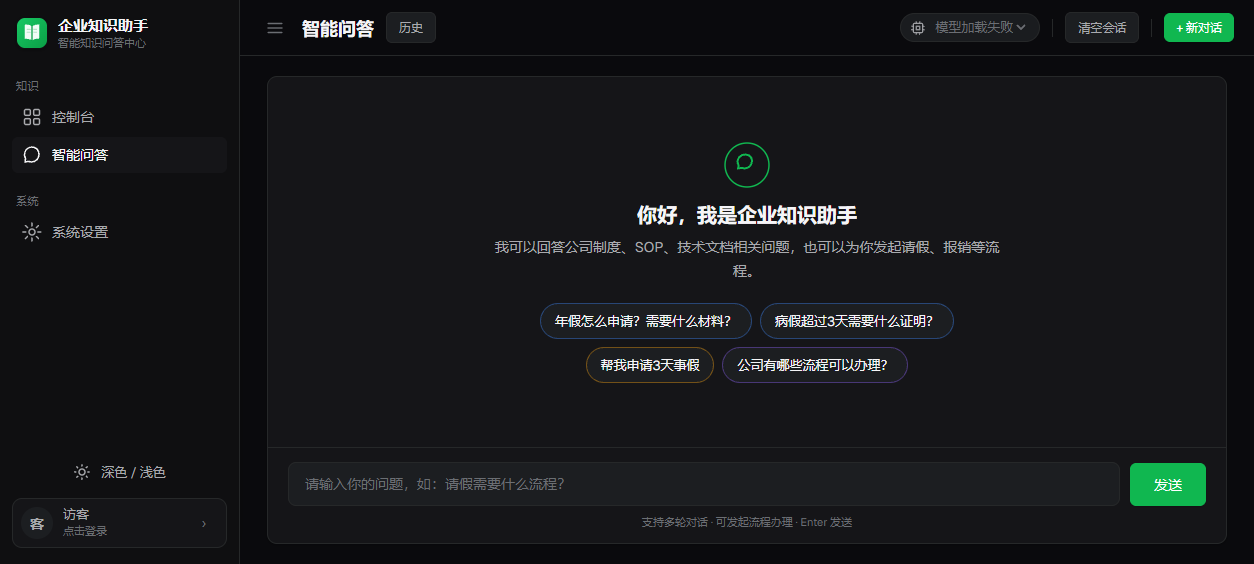
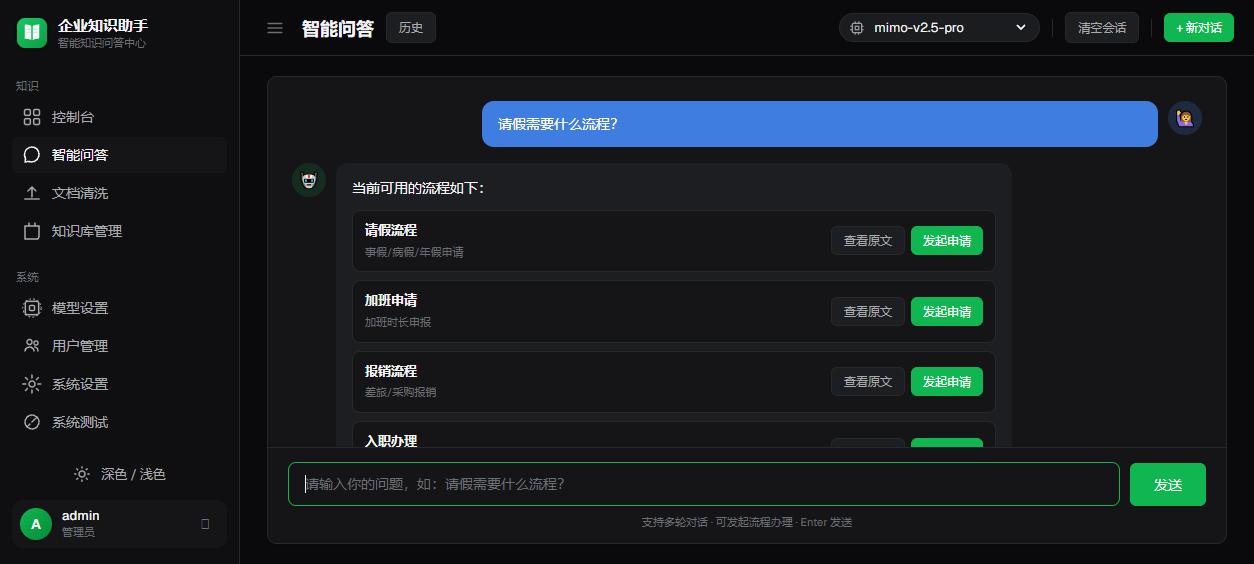
docs: 预览图更换为智能问答页（含真实问答与流程卡片）

diff --git a/README.md b/README.md
@@ -4,9 +4,7 @@
 
 ## 界面预览
 
-| 智能问答 | 控制台（可观测） |
-|:---:|:---:|
-| ![智能问答](docs/screenshots/chat.png) | ![控制台](docs/screenshots/home.png) |
+![智能问答](docs/screenshots/chat.png)
 
 
 > 📌 **架构设计**：见 [`docs/架构设计-2.0.md`](./docs/架构设计-2.0.md)。
